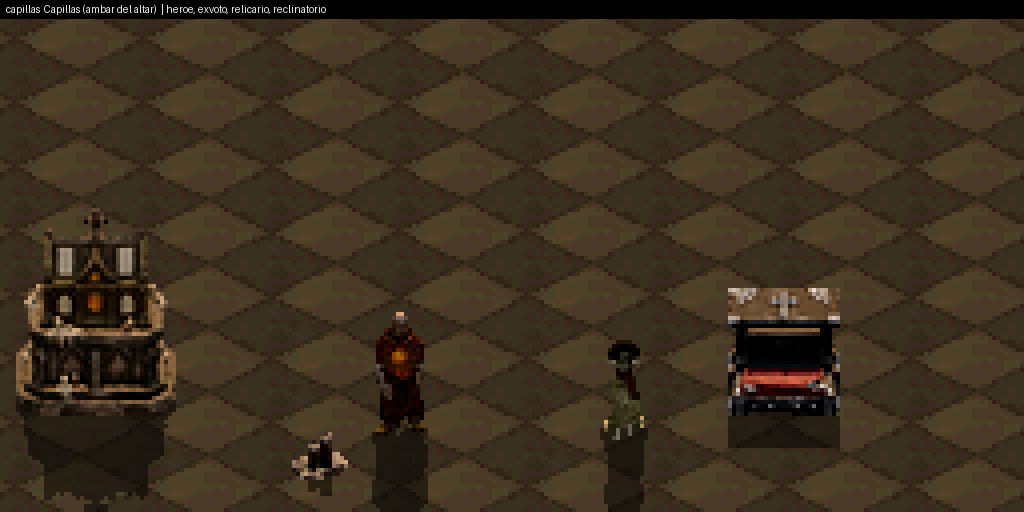
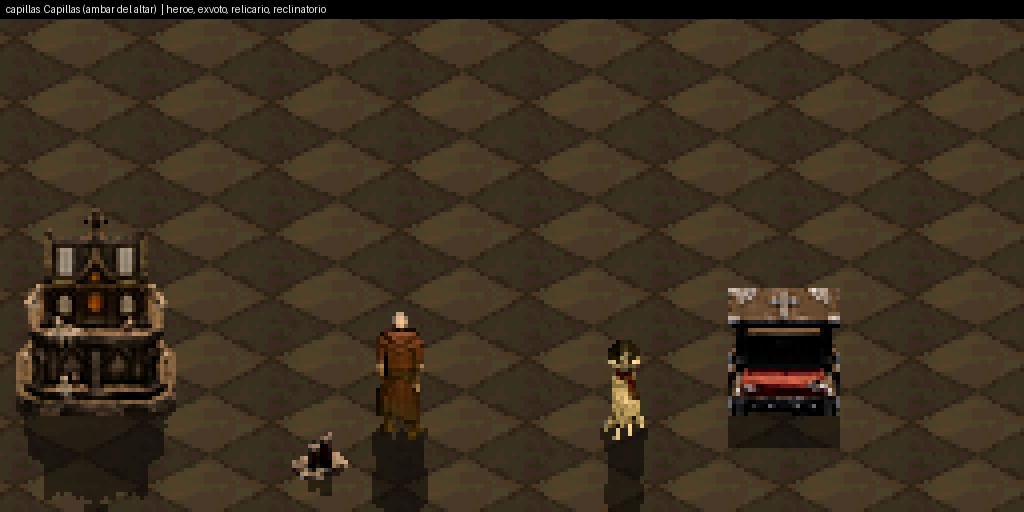
wip(arpg-luz-sala): correcciones de luz (heroe marron de ROM, claustros mas claros, cripta apagada, naves distinguibles) y mosaico de 12 luces

Changed region(s): [[0.3438, 0.5938, 0.4375, 0.875], [0.5938, 0.6562, 0.625, 0.875], [0.4062, 0.875, 0.4375, 0.9062]]

diff --git a/tools/arpg_light_chars.py b/tools/arpg_light_chars.py
@@ -35,9 +35,25 @@ def load_lights():
     return json.loads((ROOT / "tools/arpg_light_rooms.json").read_text(encoding="utf-8"))
 
 
+NEUTRO = {"key": "#fff0d9", "fill": "#cbd8ff", "rim": "#dce8ff"}
+
+
+def mezcla(a, b, t):
+    ca = [int(a[i:i + 2], 16) for i in (1, 3, 5)]
+    cb = [int(b[i:i + 2], 16) for i in (1, 3, 5)]
+    return "#%02x%02x%02x" % tuple(round(x + (y - x) * t) for x, y in zip(ca, cb))
+
+
 def lab_light(l):
-    return {k: l[k] for k in ("key", "fill", "rim", "world", "keyColor", "fillColor", "rimColor")} | {
-        "fromDeg": l["desde_deg"], "elevation": l["elevacion_deg"], "shadowElevation": l["sombra_elevacion_deg"]}
+    """Personajes: la intensidad escala TODAS las luces (key/fill/rim/world del preset neutral del dia) y la luz de la sala
+    solo pone color y direccion de la sombra de suelo; el sombreado conserva la direccion del dia (shadeDay) para que
+    el peregrino se lea de frente. char_gain (opcional) sustituye a la intensidad (claustros: sol por encima del dia)."""
+    g = l.get("char_gain", l["intensidad"])
+    mx = l.get("char_tint_mix", 0.5)  # cuanto del color de la sala pasa al personaje (0 = neutral del dia)
+    return {"key": round(3.2 * g, 3), "fill": round(0.65 * g, 3), "rim": round(0.4 * g, 3), "world": round(0.25 * g, 3),
+            "keyColor": mezcla(NEUTRO["key"], l["keyColor"], mx), "fillColor": mezcla(NEUTRO["fill"], l["fillColor"], mx),
+            "rimColor": mezcla(NEUTRO["rim"], l["rimColor"], mx), "shadeDay": True,
+            "fromDeg": l["desde_deg"], "elevation": l["elevacion_deg"], "shadowElevation": l["sombra_elevacion_deg"]}
 
 
 def room_enemies(rooms):

diff --git a/tools/arpg_light_pack.py b/tools/arpg_light_pack.py
@@ -33,7 +33,6 @@ CLIP_OF_DIR = {"cireneo": "charger", "cireneo_charge": "charger_charge", "cirene
 REMATE_OF = {"monja": "exvoto", "bebe": "exvoto_bebe", "monaguillo": "monaguillo", "cireneo": "cireneo",
              "ojo": "ojo", "parroco": "parroco", "smonja": "smonja"}
 SMONJA_DIRS = ["exvoto_super_monja", "exvoto_super_monja_pray_stand", "exvoto_super_monja_pray_kneel", "exvoto_super_monja_stand_up"]
-ARANA_DIRS = ["exvoto_arana_walk", "exvoto_arana_trans", "monaguillo_arana_walk", "monaguillo_arana_trans"]
 CHARS_DAY = ROOT / "assets/sprites/characters"
 
 
@@ -90,8 +89,6 @@ def stage_chars(light, base, types):
     tint_dirs = []
     if "smonja" in types:
         tint_dirs += SMONJA_DIRS
-    if light["id"] == "monjarana":
-        tint_dirs += ARANA_DIRS
     for d in sorted(p.name for p in CHARS_DAY.iterdir() if p.is_dir()):
         if d in relit:
             junction(full / d, base / "chars" / d)

diff --git a/tools/arpg_light_sheet.py b/tools/arpg_light_sheet.py
@@ -80,7 +80,7 @@ def main():
     props = [(sub, n) for _, sub, n in sorted(cand, reverse=True)[:2]]
 
     items = []      # (baseline_y, sprite, ox, oy, shadow, sox, soy)
-    spr, (ax, ay), shd, (cx, cy) = char_frame(base, "corazon", 0, 0)
+    spr, (ax, ay), shd, (cx, cy) = char_frame(base, "corazon", 4, 0)
     items.append((108, spr, 100 - ax, 108 - ay, shd, 100 - cx, 108 - cy))
     spr, (ax, ay), shd, (cx, cy) = char_frame(base, enemy, 0, 0)
     items.append((108, spr, 156 - ax, 108 - ay, shd, 156 - cx, 108 - cy))

diff --git a/DESIGN-ARPG.md b/DESIGN-ARPG.md
@@ -210,17 +210,18 @@ Intensidad = potencia de la luz principal; «desde» = de dónde viene en pantal
 | Nave 3 | 2 | ídem | 70 % | 305 | 48 | ídem |
 | Nave 4 | 3 | ídem | 55 % | 305 | 48 | ídem |
 | Galerías | 4, 5 | polvo cálido | 60 % | 270 | 20 | muy largas, horizontales |
-| Claustros | 6, 7 | sol de día | 100 % | 330 | 70 | cortas y duras |
+| Claustros | 6, 7 | sol de día (la más clara y cálida de todas) | 100 % | 330 | 70 | cortas y duras |
 | Enfermería | 8 | ámbar suave | 70 % | 0 | 80 | cortas (casi vertical) |
 | Osario | 9 | frío | 35 % | 45 | 22 | largas, desde una esquina |
 | Capillas | 10, 11, 13 | ámbar | 60 % | 0 | 36 | hacia la cámara (luz desde el altar) |
 | Prisionero | 12 | verdoso (ventanuco alto lateral) | 40 % | 90 | 58 | un haz duro |
 | Monjaraña | 14 | verde enfermizo | 30 % | 180 | 22 | largas hacia el fondo |
-| Cripta | 15 | rojo brasa | 45 % | 180 | 24 | largas hacia el fondo |
+| Cripta | 15 | brasa apagada (rojizo desaturado) | 45 % | 180 | 24 | largas hacia el fondo |
 
 - **Relación con el póster:** los tintes de referencia son los del póster v3 (`tools/poster/salas/sala_NN.py`, `AM` de `tools/poster/poster_arpg_v3.py`); el contraste se dramatiza respecto a él.
 - **Pipeline:** `tools/arpg_light_props.py`, `tools/arpg_light_chars.py` y `tools/arpg_light_pack.py <luz>` generan el paquete `nitrofiles/arpg_luz/<luz>.bin` (formato en `TECHNICAL.md` §5.7). Hojas de contacto en `walkthroughs/arpg-luz-sala/`.
 - **Aproximaciones:** los remates (sin fuente 3D versionada) y los personajes sin modelo 3D utilizable (Super Monja, arañas) se oscurecen con el tinte de la luz; todo lo que tiene modelo se vuelve a renderizar con la luz.
+- **Personajes:** la intensidad escala todas sus luces (Nave 1 y Nave 4 se distinguen en el héroe y en los enemigos); el color de la sala llega a medias (mitad hacia el neutral del día) y el sombreado conserva la dirección del día, de modo que el peregrino se lee marrón como en la ROM en todas las salas. Solo la sombra de suelo usa la dirección de la sala. Las arañas no salen en ningún grupo de la monjaraña (sala 14), así que no entran en su pack.
 
 ### Seis ambientes: objetivo, no vigente
 
